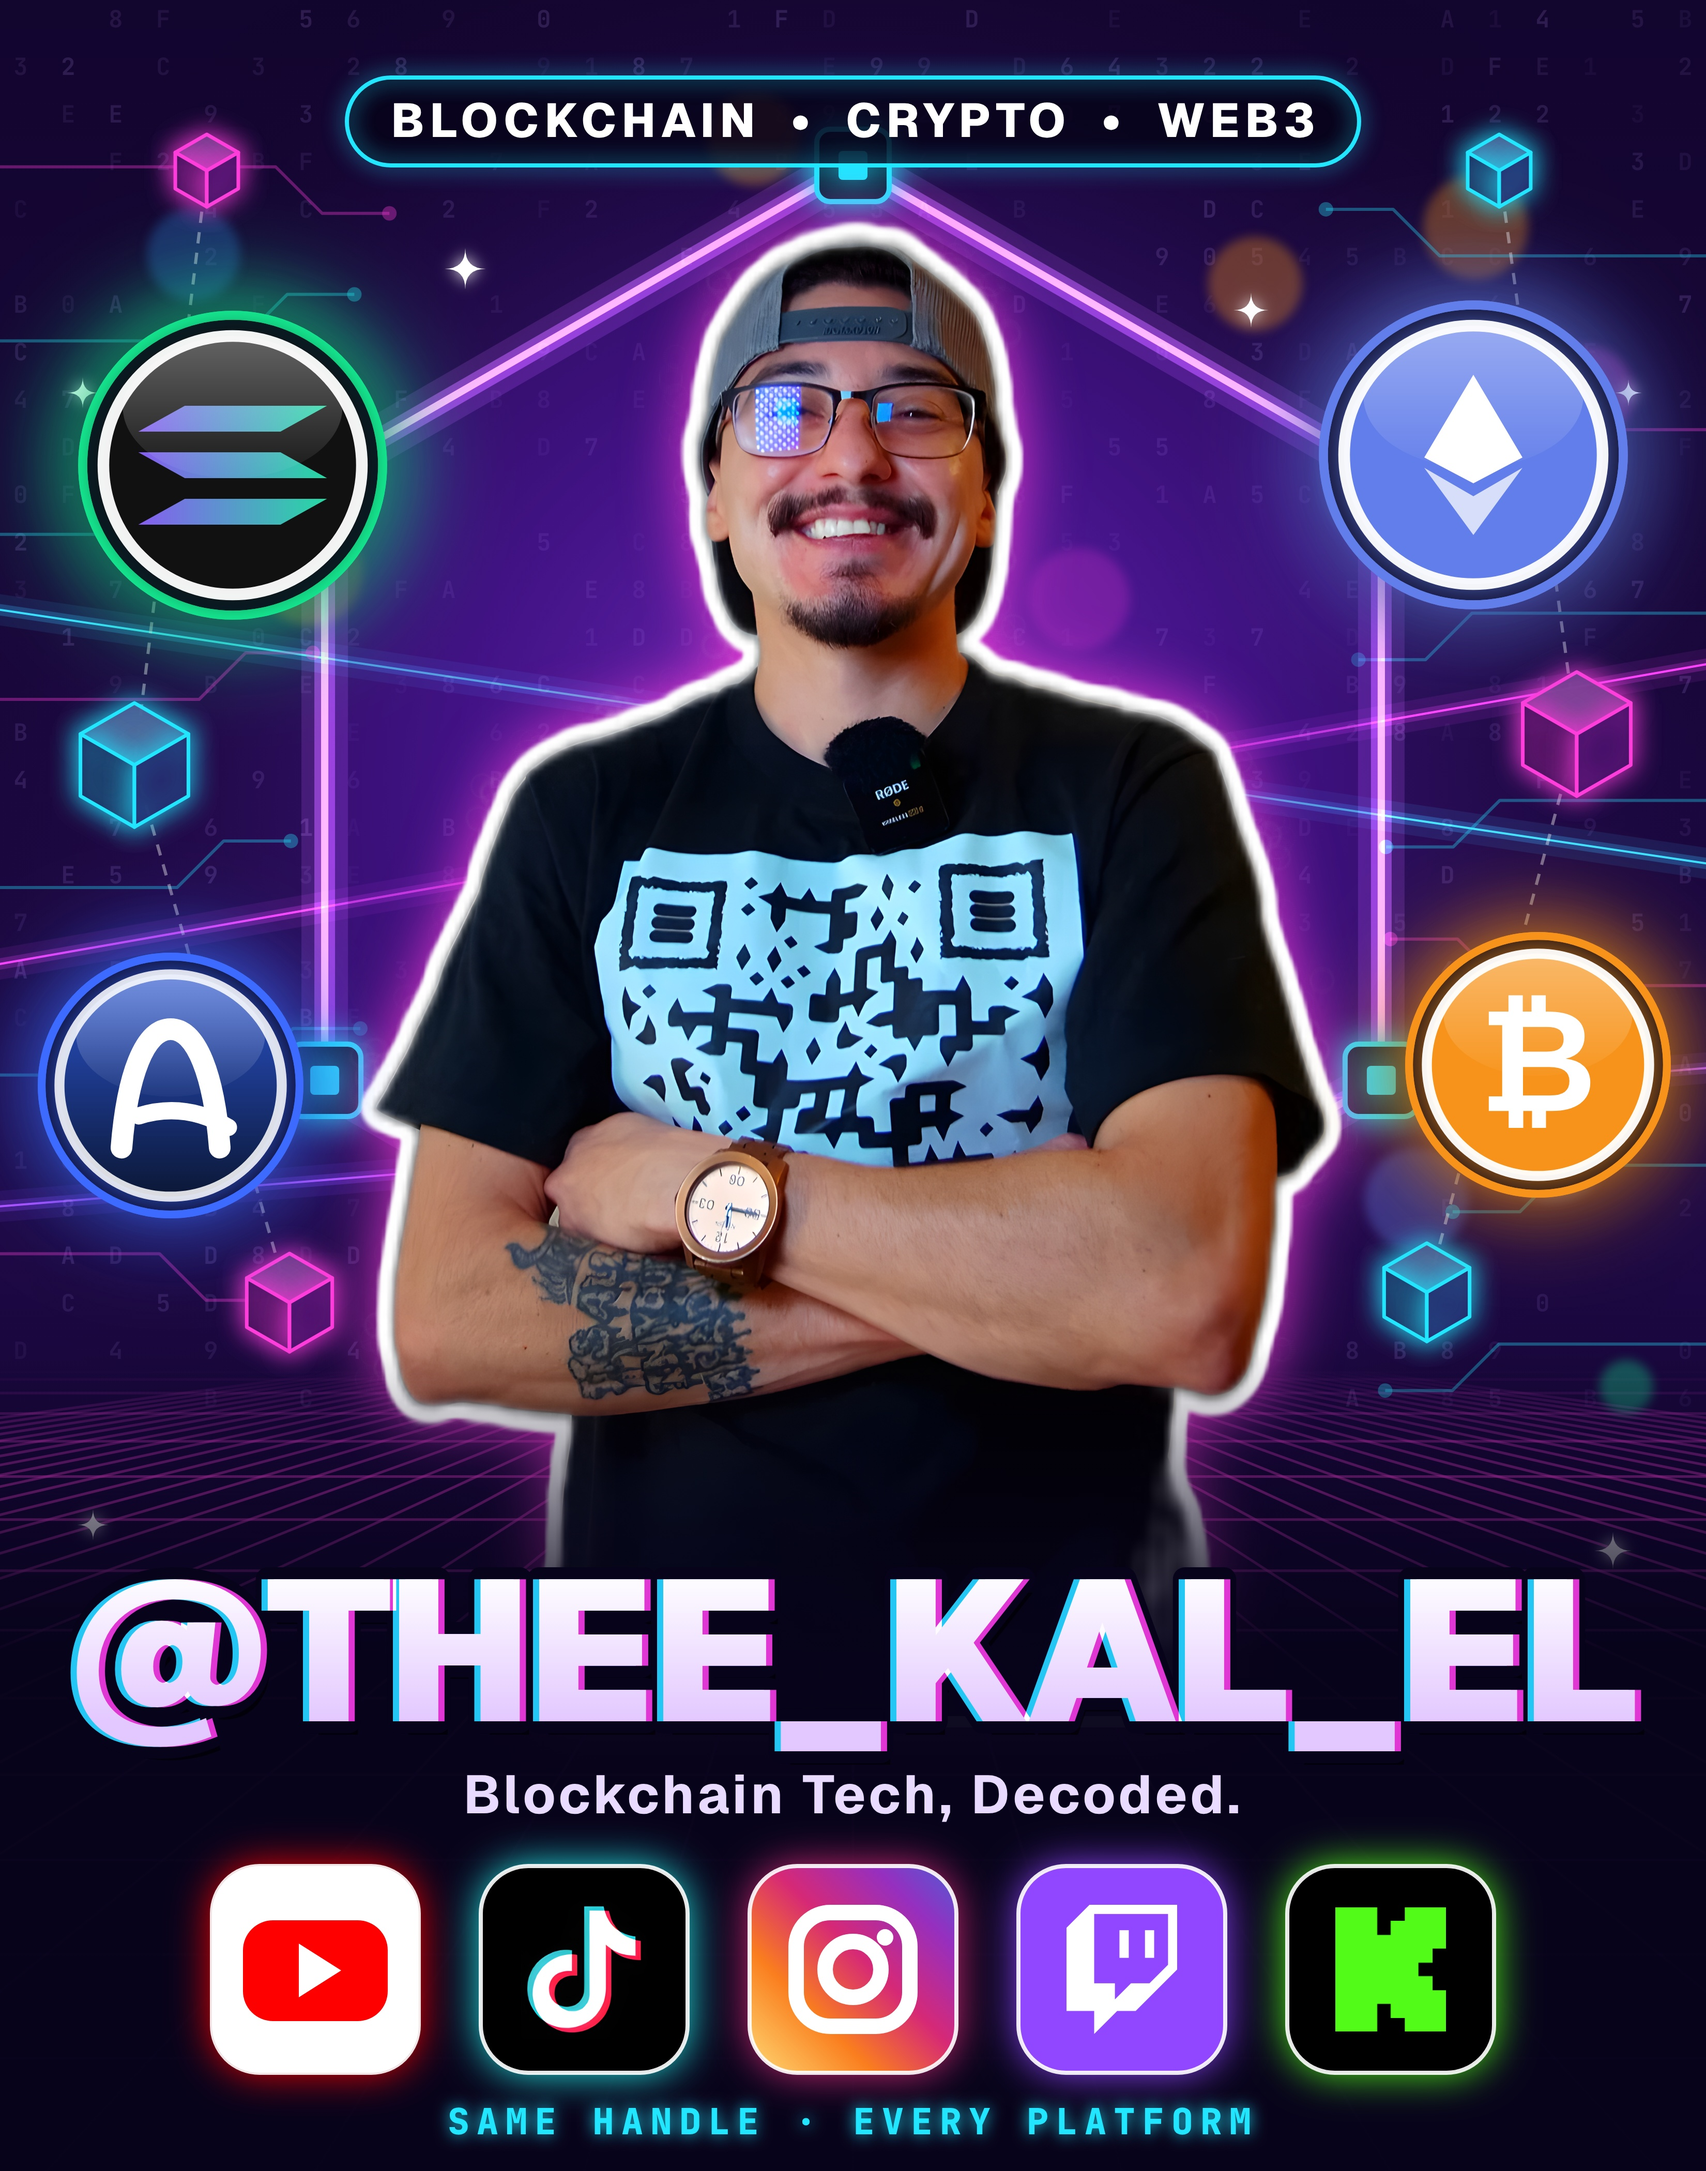
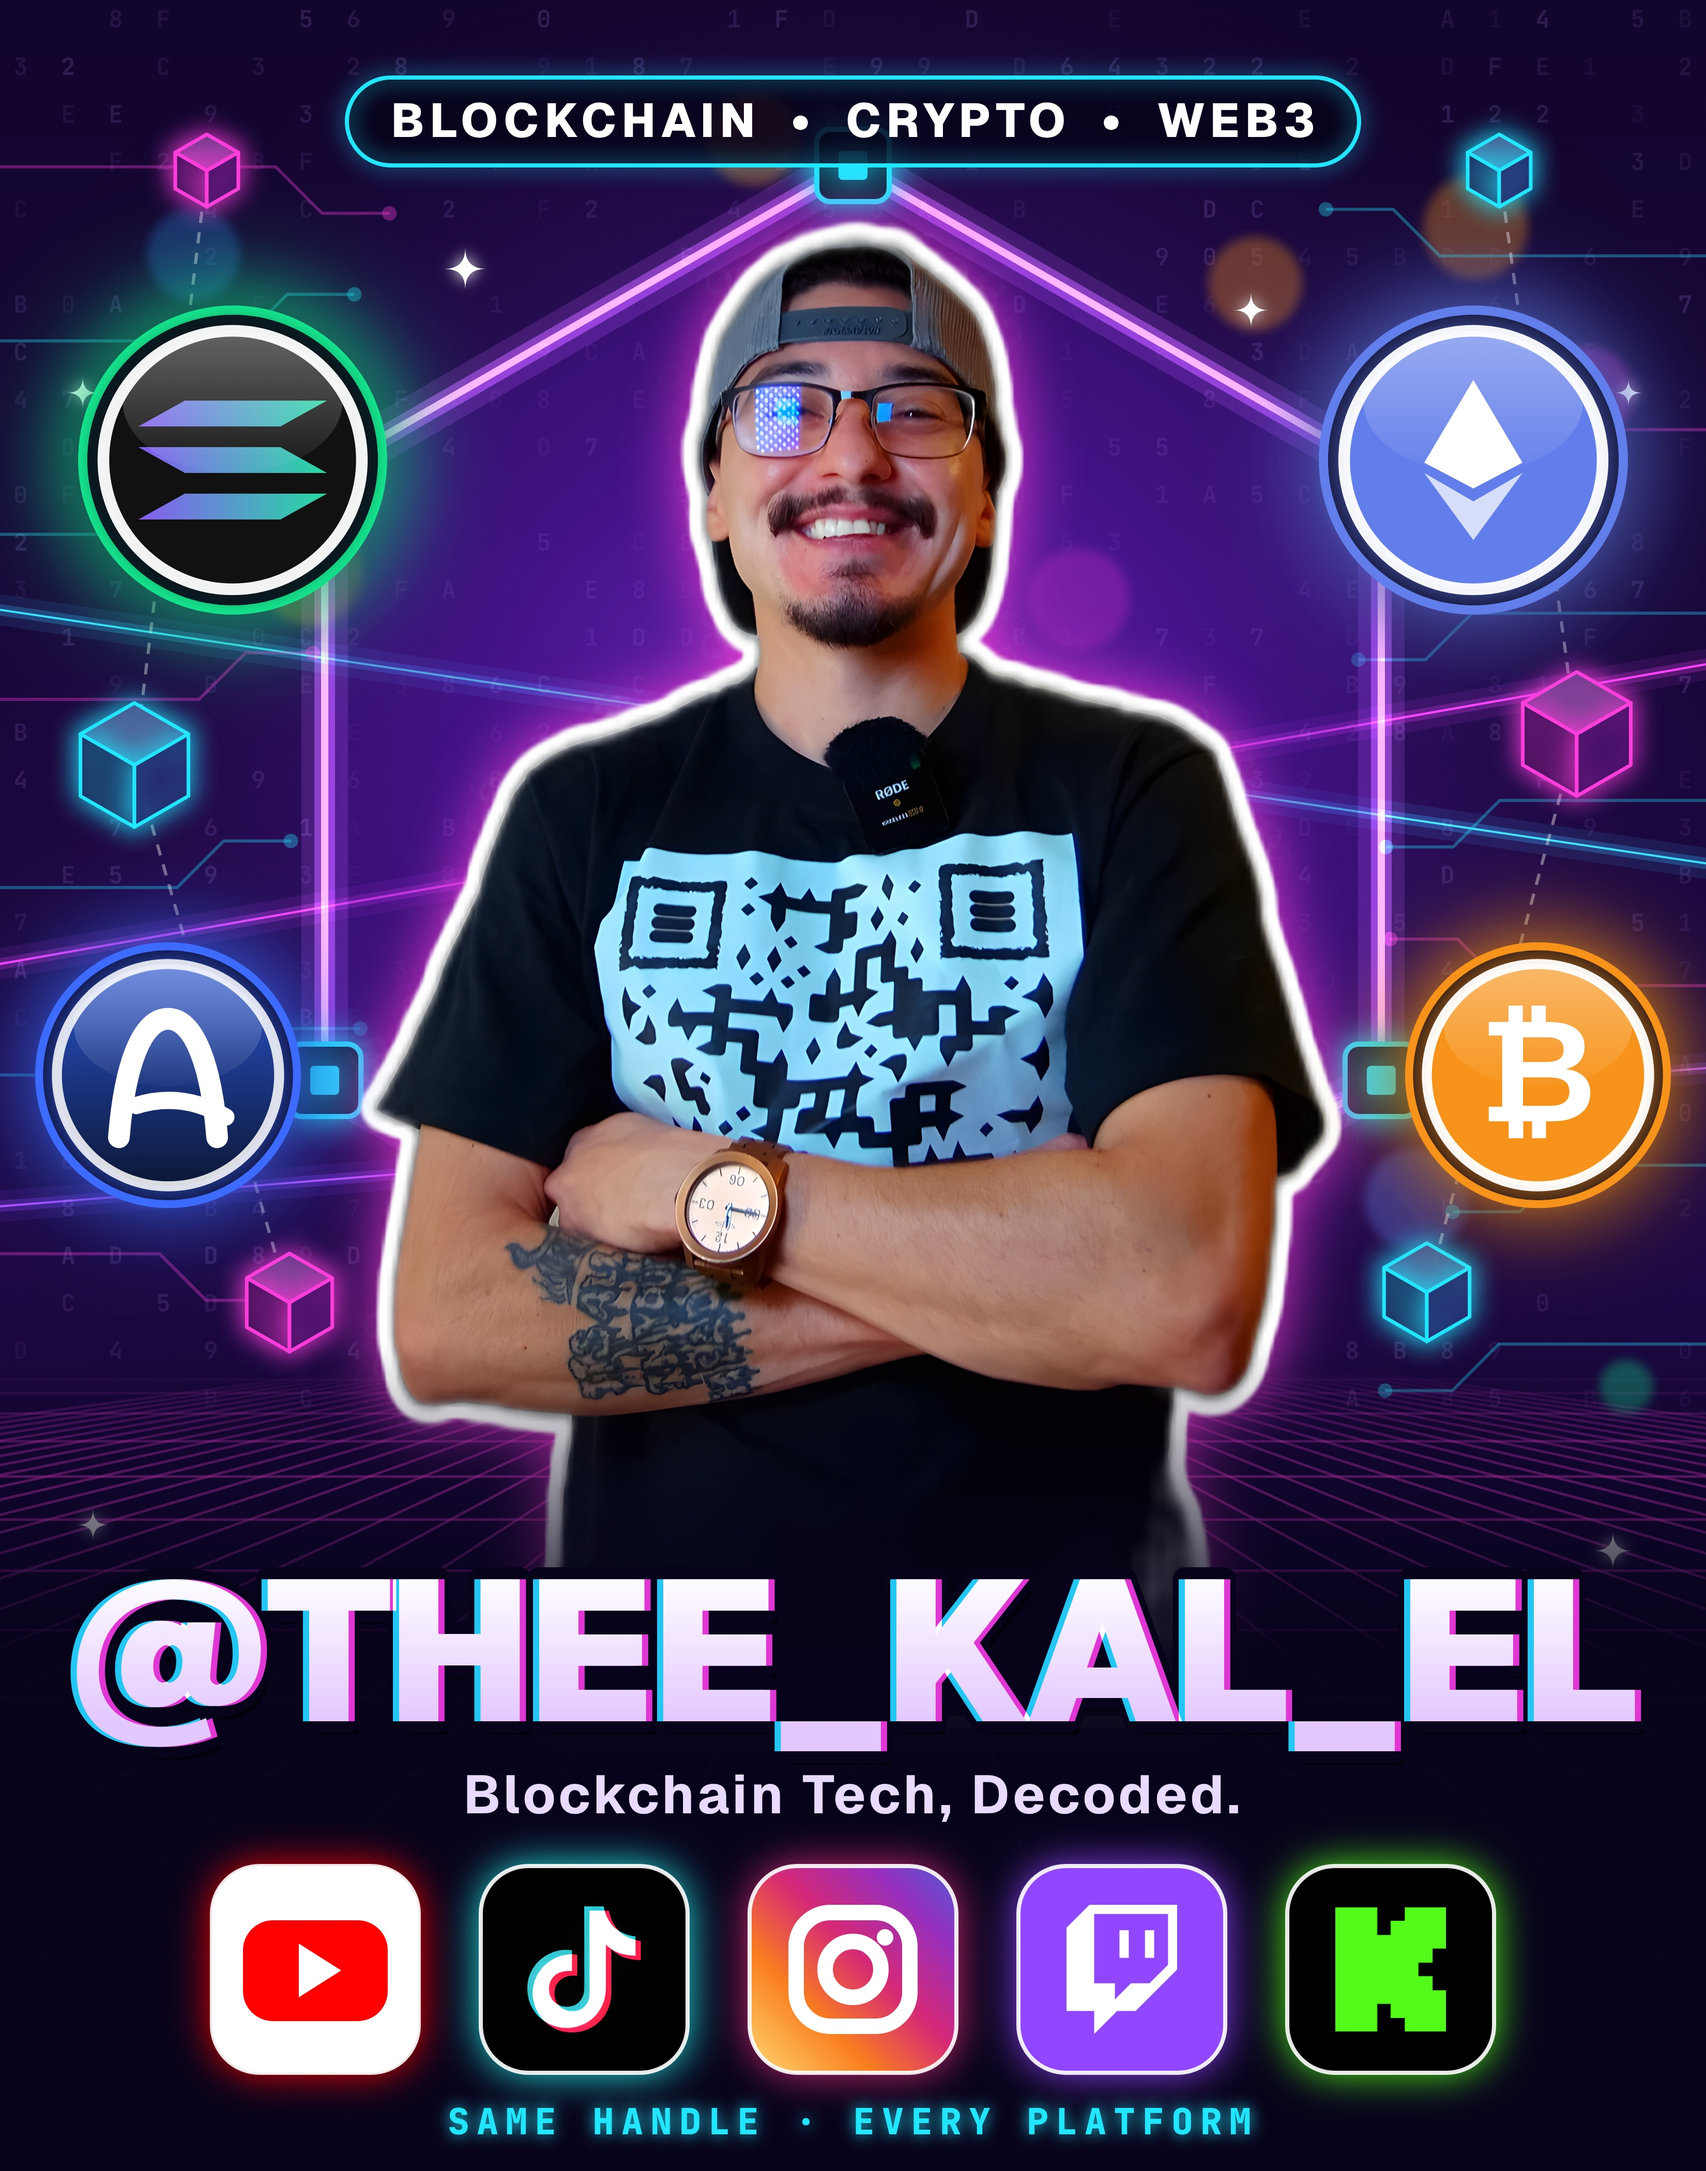
Poster edit A: level and mirror the coin pairs
Claude-Session: https://claude.ai/code/session_01NSJvdmHsHoazKiuuGVQfMY

diff --git a/story/kal_poster.html b/story/kal_poster.html
@@ -80,7 +80,7 @@
       const k = r * 1.3 / 100; c.scale(k, k); c.translate(0, 3); c.strokeStyle = '#fff'; c.lineCap = 'round'; c.lineJoin = 'round'; c.lineWidth = 15; c.beginPath(); c.moveTo(-34, 40); c.bezierCurveTo(-30, -10, -18, -42, 0, -42); c.bezierCurveTo(18, -42, 30, -10, 34, 40); c.stroke(); c.lineWidth = 12; c.beginPath(); c.moveTo(-22, 18); c.quadraticCurveTo(10, 8, 40, 26); c.stroke(); c.restore(); gloss(x, y, r); },
   };
   // Solana and Bitcoin swapped places
-  if (V === 'a') { COIN.sol(450, 900, 250, 0); COIN.eth(2850, 880, 250, 0); COIN.btc(2975, 2060, 215, 0); COIN.arc(330, 2100, 215, 0); }
+  if (V === 'a') { COIN.sol(450, 890, 250, 0); COIN.eth(2850, 890, 250, 0); COIN.btc(2975, 2080, 215, 0); COIN.arc(325, 2080, 215, 0); }
 
   // ---- top chip ----
   c.save(); c.font = G(800, 92); c.letterSpacing = '10px'; const chip = 'BLOCKCHAIN  •  CRYPTO  •  WEB3', cw = c.measureText(chip).width + 160; rr((W - cw) / 2, 150, cw, 170, 85); c.fillStyle = 'rgba(7,3,26,0.85)'; c.fill(); c.lineWidth = 8; c.strokeStyle = CYAN; c.shadowColor = CYAN; c.shadowBlur = 40; c.stroke(); c.shadowBlur = 0;
